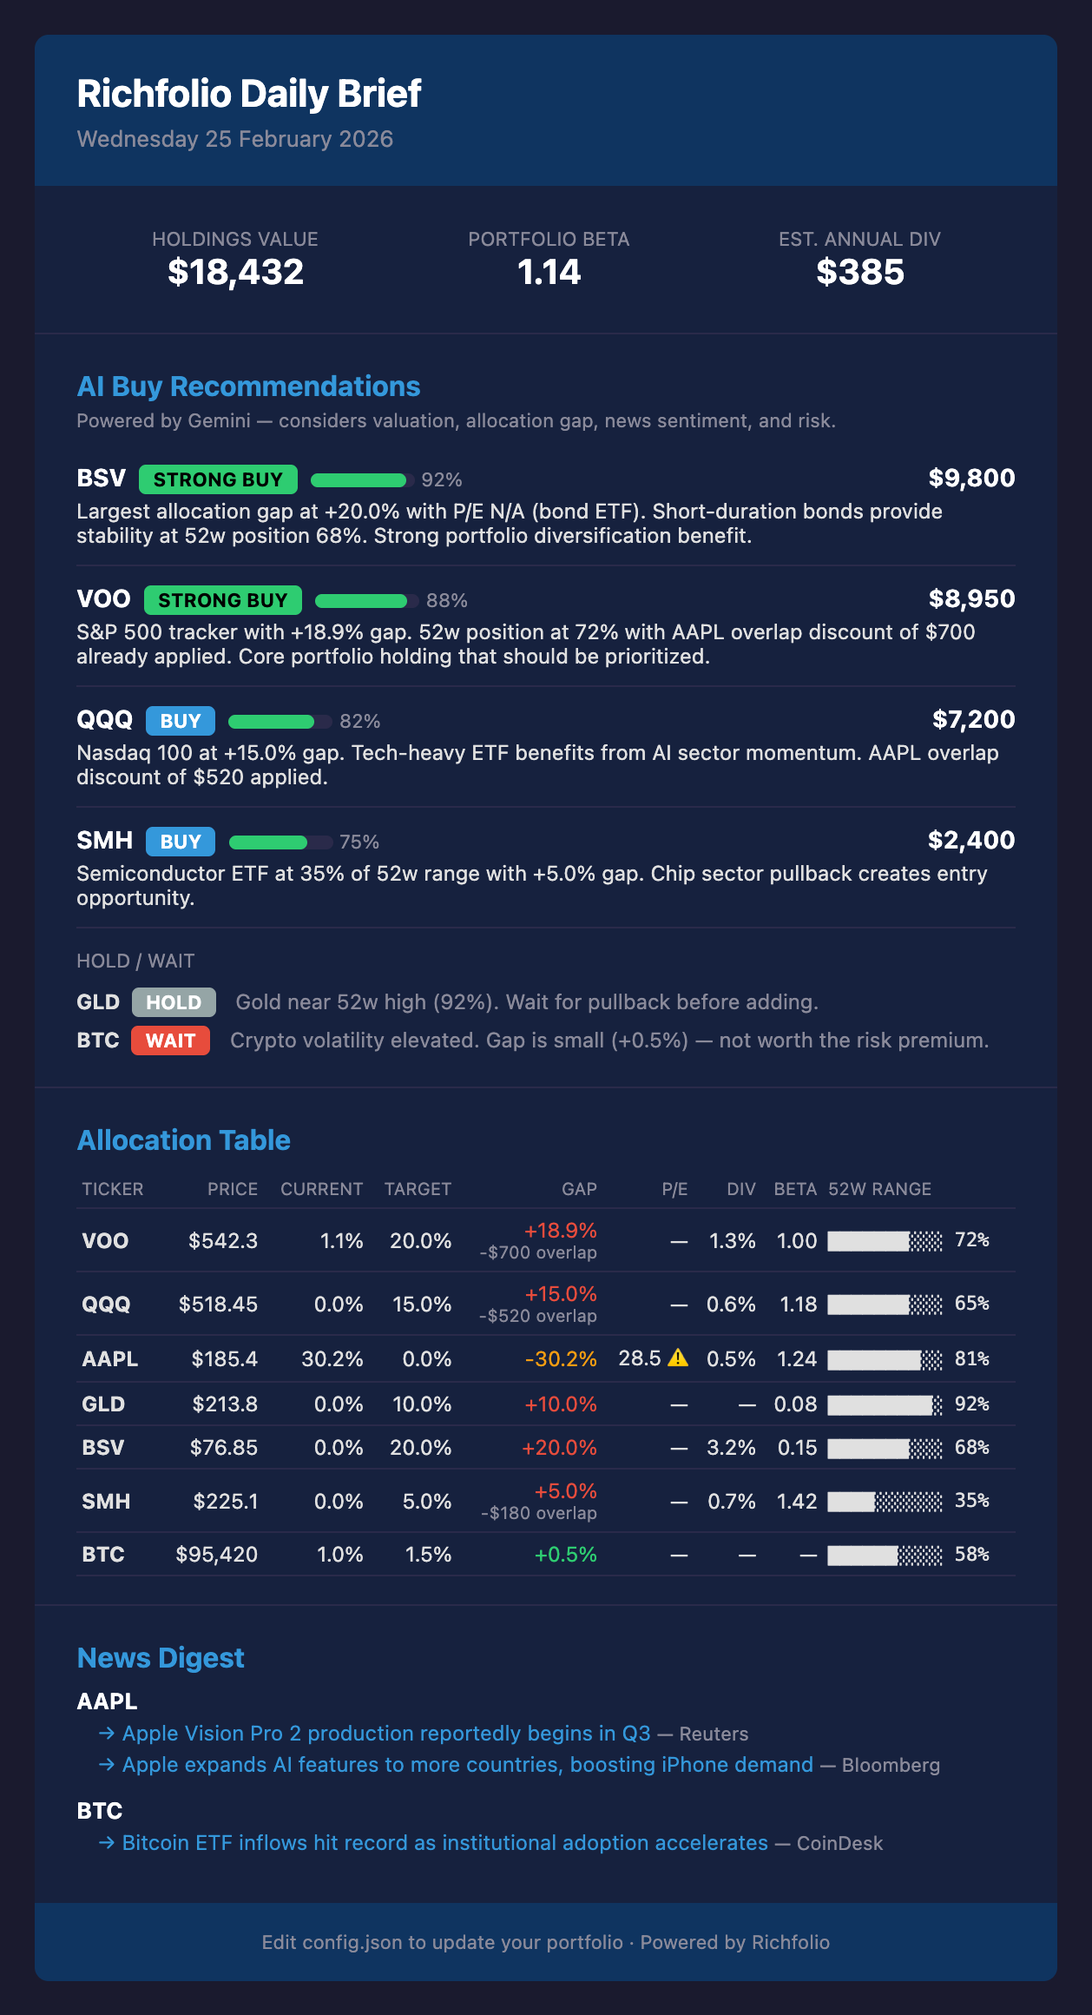
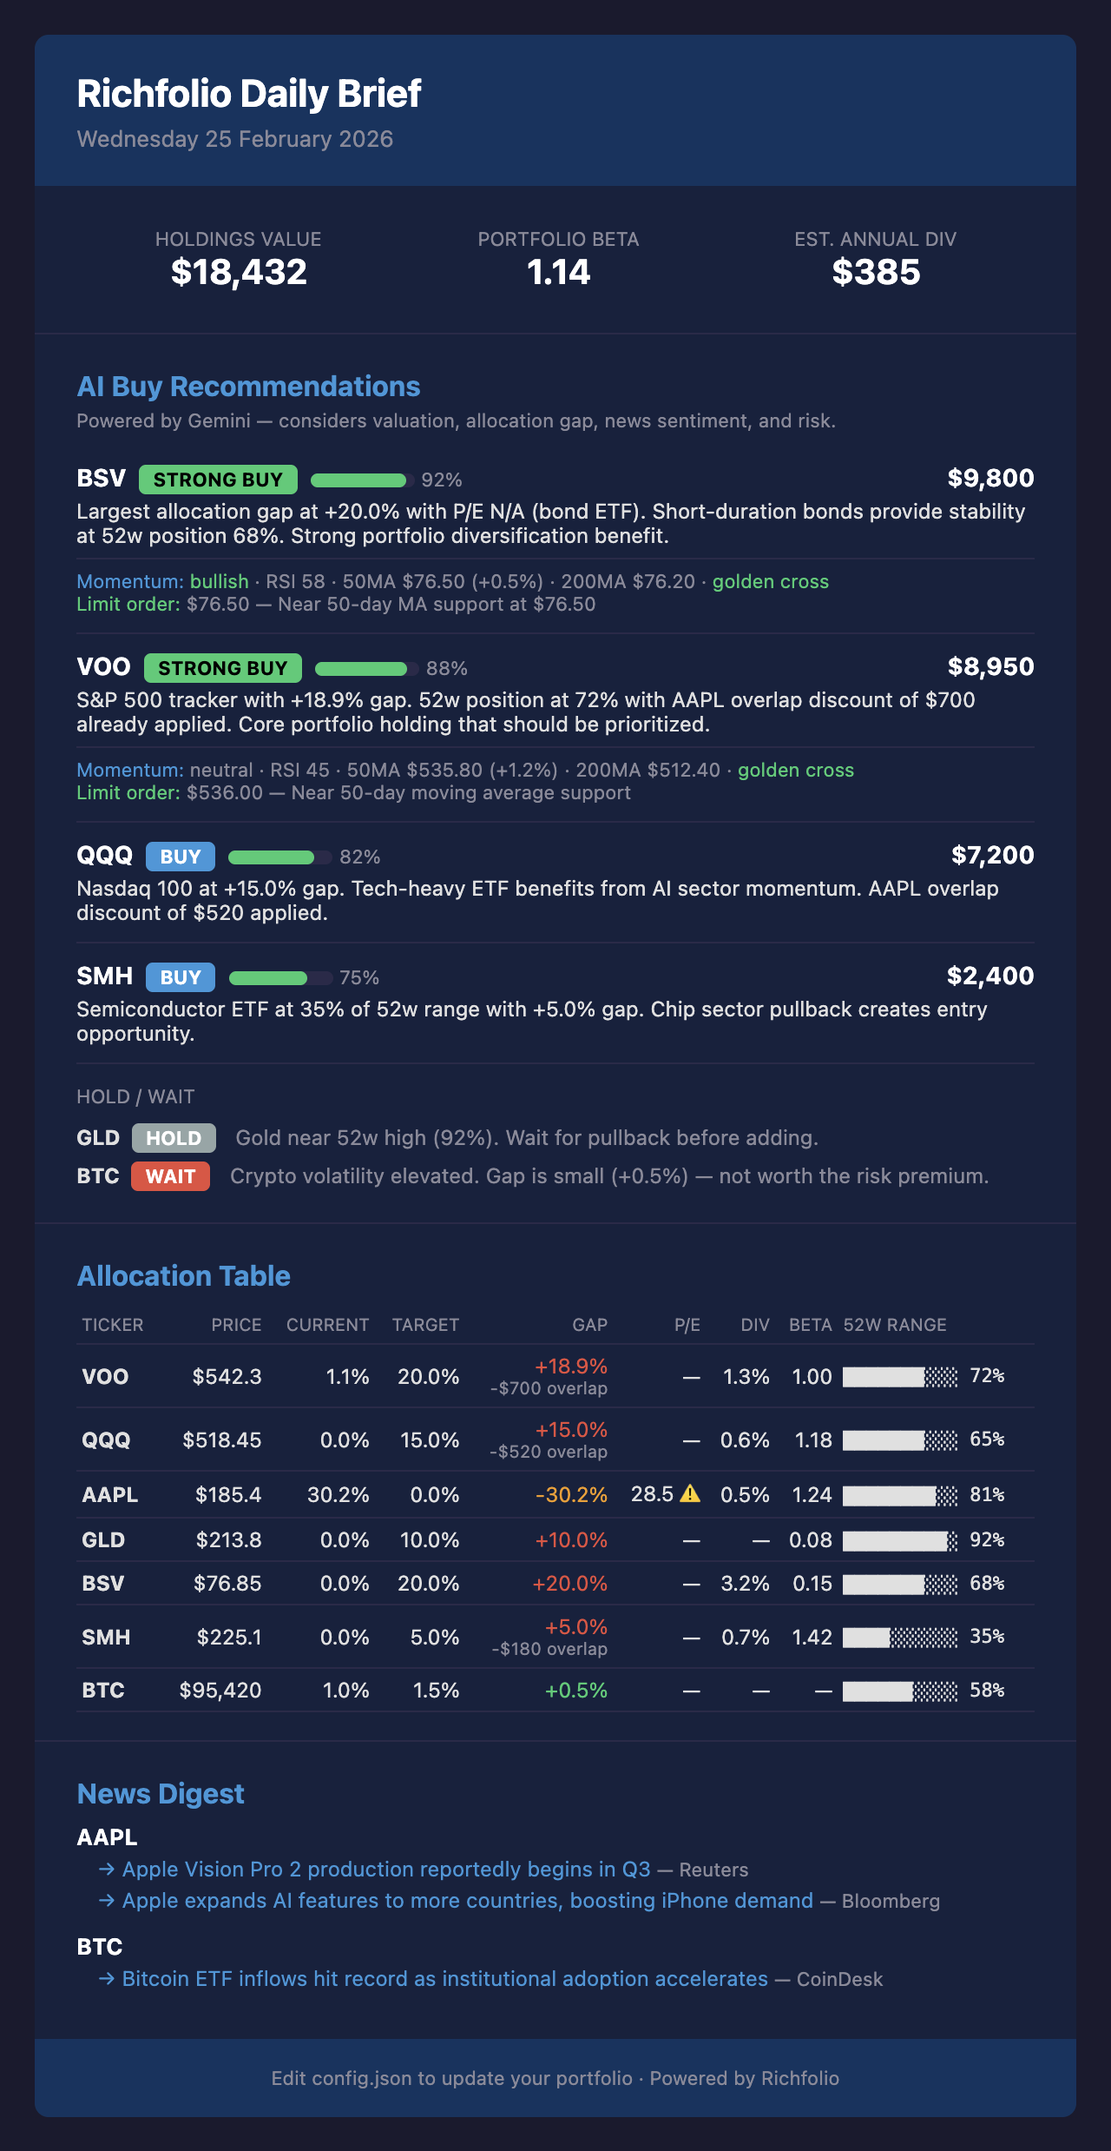
Update docs for technical momentum signals and limit order prices
Add Technical Momentum Signals and Limit Order Prices sections to
features and how-it-works docs. Update pipeline diagrams, architecture
trees, and AI scoring details across README, CLAUDE.md, and mockups.
Fix screenshot rename from intraday-alert.html.png to intraday-alert.png.

diff --git a/docs/mockups/daily-brief.html b/docs/mockups/daily-brief.html
@@ -44,6 +44,7 @@
       <span style="float:right;font-weight:bold;color:#fff;">$9,800</span>
     </div>
     <div style="font-size:12px;color:#e0e0e0;margin-top:4px;">Largest allocation gap at +20.0% with P/E N/A (bond ETF). Short-duration bonds provide stability at 52w position 68%. Strong portfolio diversification benefit.</div>
+    <div style="font-size:11px;color:#8a8a9a;margin-top:6px;border-top:1px solid #2a2a4a;padding-top:6px;"><span style="color:#3498db;">Momentum:</span> <span style="color:#2ecc71;">bullish</span> · RSI <span style="color:#8a8a9a;">58</span> · 50MA $76.50 (+0.5%) · 200MA $76.20 · <span style="color:#2ecc71;">golden cross</span><br><span style="color:#2ecc71;">Limit order:</span> $76.50 — Near 50-day MA support at $76.50</div>
   </div>
   <div style="padding:10px 0;border-bottom:1px solid #2a2a4a;">
     <div style="margin-bottom:4px;">
@@ -53,6 +54,7 @@
       <span style="float:right;font-weight:bold;color:#fff;">$8,950</span>
     </div>
     <div style="font-size:12px;color:#e0e0e0;margin-top:4px;">S&P 500 tracker with +18.9% gap. 52w position at 72% with AAPL overlap discount of $700 already applied. Core portfolio holding that should be prioritized.</div>
+    <div style="font-size:11px;color:#8a8a9a;margin-top:6px;border-top:1px solid #2a2a4a;padding-top:6px;"><span style="color:#3498db;">Momentum:</span> <span style="color:#8a8a9a;">neutral</span> · RSI <span style="color:#8a8a9a;">45</span> · 50MA $535.80 (+1.2%) · 200MA $512.40 · <span style="color:#2ecc71;">golden cross</span><br><span style="color:#2ecc71;">Limit order:</span> $536.00 — Near 50-day moving average support</div>
   </div>
   <div style="padding:10px 0;border-bottom:1px solid #2a2a4a;">
     <div style="margin-bottom:4px;">

diff --git a/docs/mockups/intraday-alert.html b/docs/mockups/intraday-alert.html
@@ -30,6 +30,7 @@
     <div style="margin-bottom:6px;"><span style="color:#2ecc71;font-size:12px;">Price -2.3% since morning</span></div>
     <div style="font-size:12px;color:#e0e0e0;margin-bottom:4px;">Semiconductor ETF dropped on intraday sell-off while fundamentals remain strong. 52w position at 35% with +8.2% allocation gap creates compelling entry point.</div>
     <div style="font-size:13px;font-weight:bold;color:#fff;">Suggested: $4,100</div>
+    <div style="font-size:12px;color:#2ecc71;margin-top:4px;">Limit order: $220.00 — Near 30-day low support at $219</div>
   </div>
   <div style="padding:14px 0;border-bottom:1px solid #2a2a4a;">
     <div style="margin-bottom:6px;">

diff --git a/docs/how-it-works.md b/docs/how-it-works.md
@@ -15,13 +15,16 @@ Richfolio is a single-pipeline system — no API server, no database, no dashboa
 ```
 config.json + .env
   → fetchPrices (Yahoo Finance: prices, P/E, 52w range, beta, dividends, ETF holdings)
+  → fetchTechnicals (Yahoo Finance chart: SMA50, SMA200, RSI, momentum signals)
   → fetchNews (NewsAPI: top headlines per ticker)
   → analyze (allocation gaps, P/E signals, overlap discounts, portfolio metrics)
-  → aiAnalyze (Gemini: AI buy recommendations with confidence scores)
-  → email + telegram (deliver daily brief)
+  → aiAnalyze (Gemini: AI buy recommendations + confidence scores + limit order prices)
+  → email + telegram (deliver daily brief with technical insights for STRONG BUY)
 ```
 
-Weekly mode (`--weekly`) skips news and AI, producing a focused rebalancing report.
+Weekly mode (`--weekly`) skips news, technicals, and AI, producing a focused rebalancing report.
+
+Intraday mode (`--intraday`) re-fetches prices and technicals, re-runs AI (skipping news), compares against the morning baseline, and alerts only when signals strengthen.
 
 ---
 
@@ -32,9 +35,10 @@ src/
 ├── config.ts          # Typed loader for config.json + .env
 ├── index.ts           # Entry point — parses --weekly/--intraday flags, wires modules
 ├── fetchPrices.ts     # Yahoo Finance via yahoo-finance2 (instance-based v3 API)
+├── fetchTechnicals.ts # Yahoo Finance chart: SMA50, SMA200, RSI, momentum signals
 ├── fetchNews.ts       # NewsAPI with ticker-to-company-name mapping
 ├── analyze.ts         # Core analysis: gaps, P/E signals, overlap, portfolio metrics
-├── aiAnalysis.ts      # Gemini prompt builder + JSON response parser
+├── aiAnalysis.ts      # Gemini prompt builder + JSON response parser + limit order prices
 ├── state.ts           # Morning baseline save/load for intraday comparison
 ├── intradayCompare.ts # Compare current AI recs vs morning baseline
 ├── email.ts           # Daily HTML email template + Resend delivery
@@ -43,7 +47,7 @@ src/
 └── telegram.ts        # Telegram Bot API delivery (daily + intraday + weekly formatters)
 ```
 
-Each module is independent — they communicate through typed interfaces (`QuoteData`, `AllocationItem`, `AllocationReport`, `AIBuyRecommendation`, `IntradayAlert`).
+Each module is independent — they communicate through typed interfaces (`QuoteData`, `TechnicalData`, `AllocationItem`, `AllocationReport`, `AIBuyRecommendation`, `IntradayAlert`).
 
 ---
 
@@ -94,14 +98,34 @@ Each ticker's price is positioned within its 52-week range:
 - **20–80%** → mid-range (neutral)
 - **80–100%** → near 52-week high (caution signal)
 
+### Technical Indicators
+
+Richfolio fetches ~250 days of daily OHLCV data via `yahooFinance.chart()` and computes:
+
+1. **SMA50** — simple moving average of the last 50 closing prices
+2. **SMA200** — simple moving average of the last 200 closing prices (null if < 200 data points)
+3. **RSI(14)** — standard Relative Strength Index using 14-day average gain/loss
+4. **Momentum signal**:
+   - **Bullish** — price > SMA50, SMA50 > SMA200, RSI > 40
+   - **Bearish** — price < SMA50, SMA50 < SMA200, RSI < 60
+   - **Neutral** — mixed signals
+5. **Golden/Death cross** — SMA50 crossing above (golden) or below (death) SMA200
+6. **Recent lows** — minimum price in last 7 and 30 trading days (support levels)
+
+Tickers with fewer than 50 data points are gracefully skipped.
+
 ### AI Scoring
 
-The Gemini prompt includes all data points per ticker: price, P/E ratios, 52-week position, allocation gap, dividend yield, beta, ETF overlap, and recent news headlines. The AI weighs these holistically and returns:
+The Gemini prompt includes all data points per ticker: price, P/E ratios, 52-week position, allocation gap, dividend yield, beta, ETF overlap, technical indicators (MAs, RSI, momentum), and recent news headlines. The AI weighs these holistically and returns:
 
 - **Action**: STRONG BUY, BUY, HOLD, or WAIT
 - **Confidence**: 0–100%
 - **Reason**: 1–2 sentence explanation
 - **Suggested amount**: USD to invest
+- **Limit order price**: suggested price below market based on nearest support (MAs, recent lows, round numbers)
+- **Limit price reason**: 1 sentence explaining the support level
+
+Technical indicators refine the AI's confidence — a bullish momentum signal with oversold RSI strengthens a buy case, while bearish signals or overbought RSI weaken it. Limit order prices and technical details are displayed for **STRONG BUY** tickers in the email and Telegram output.
 
 If Gemini is unavailable, the system falls back to gap-based ranking (largest allocation gap first).
 
@@ -112,13 +136,15 @@ If Gemini is unavailable, the system falls back to gap-based ranking (largest al
 | | Daily | Intraday | Weekly |
 |---|---|---|---|
 | Prices & fundamentals | Yes | Yes | Yes |
+| Technical indicators | Yes | Yes | No |
 | News headlines | Yes | No | No |
 | AI recommendations | Yes | Yes | No |
+| Limit order prices | Yes | Yes | No |
 | Allocation analysis | Yes | Yes | Yes |
 | Baseline comparison | Saves baseline | Compares vs morning | No |
 | Email template | Full brief | Alert (triggered only) | Rebalancing table |
 | Telegram format | AI recs + news | Alert (triggered only) | BUY/TRIM actions |
 
 ![Daily Brief](screenshots/morning-debrief.png){: style="max-width: 260px; display: inline-block;" }
-![Intraday Alert](screenshots/intraday-alert.html.png){: style="max-width: 260px; display: inline-block;" }
+![Intraday Alert](screenshots/intraday-alert.png){: style="max-width: 260px; display: inline-block;" }
 ![Weekly Rebalance](screenshots/weekly-rebalance.png){: style="max-width: 260px; display: inline-block;" }

diff --git a/docs/features.md b/docs/features.md
@@ -6,17 +6,43 @@ nav_order: 2
 
 # Features
 
-Richfolio packs 10 capabilities into a single pipeline — all running on free-tier APIs.
+Richfolio packs 12 capabilities into a single pipeline — all running on free-tier APIs.
 
 ---
 
 ## AI Buy Recommendations
 
-Gemini 2.5 Flash analyzes your entire portfolio context — valuation metrics, allocation gaps, news sentiment, risk indicators — and returns ranked buy recommendations with confidence scores and reasoning.
+Gemini 2.5 Flash analyzes your entire portfolio context — valuation metrics, allocation gaps, news sentiment, technical indicators, risk factors — and returns ranked buy recommendations with confidence scores and reasoning.
 
-Each ticker gets an action: **STRONG BUY**, **BUY**, **HOLD**, or **WAIT**, along with a suggested dollar amount. If the Gemini API is unavailable or quota is exhausted, Richfolio falls back to gap-based recommendations automatically.
+Each ticker gets an action: **STRONG BUY**, **BUY**, **HOLD**, or **WAIT**, along with a suggested dollar amount and limit order price. If the Gemini API is unavailable or quota is exhausted, Richfolio falls back to gap-based recommendations automatically.
 
 ![Daily Brief](screenshots/morning-debrief.png){: style="max-width: 400px; display: block; margin: 16px auto;" }
+
+---
+
+## Technical Momentum Signals
+
+Richfolio fetches 250 days of historical price data via Yahoo Finance and computes technical indicators for every ticker in your portfolio:
+
+- **SMA50 / SMA200** — 50-day and 200-day simple moving averages, with current price position relative to each
+- **RSI(14)** — 14-day Relative Strength Index (below 30 = oversold, above 70 = overbought)
+- **Golden / Death Cross** — SMA50 crossing above (bullish) or below (bearish) SMA200
+- **Momentum Signal** — classified as **bullish**, **bearish**, or **neutral** based on price vs MAs and RSI
+- **Recent Lows** — 7-day and 30-day lows for identifying nearby support levels
+
+All technical data feeds into the AI prompt for better-informed recommendations. For **STRONG BUY** tickers, momentum details are shown directly in the email and Telegram message.
+
+---
+
+## Limit Order Prices
+
+When Gemini recommends **STRONG BUY** or **BUY**, it also suggests a limit order price slightly below current market. The suggested price is based on the nearest support level:
+
+- **Moving average support** — price near the 50-day or 200-day MA
+- **Recent lows** — 7-day or 30-day low as a support floor
+- **Round numbers** — psychological support at round price levels
+
+Limit order prices and their reasoning are displayed for **STRONG BUY** tickers in the daily email, Telegram message, and intraday alerts.
 
 ---
 
@@ -77,7 +103,7 @@ Two portfolio-wide metrics calculated from your current holdings:
 
 ## Intraday Alerts
 
-Don't miss the buying moment of the day. After the morning brief runs, Richfolio saves the AI recommendations as a baseline. Intraday checks (`npm run intraday`) run every 2 hours during market hours, re-fetch prices, re-run Gemini analysis (skipping news to save API quota), and compare against the morning baseline.
+Don't miss the buying moment of the day. After the morning brief runs, Richfolio saves the AI recommendations as a baseline. Intraday checks (`npm run intraday`) run every 2 hours during market hours, re-fetch prices and technicals, re-run Gemini analysis (skipping news to save API quota), and compare against the morning baseline.
 
 An alert fires only when:
 
@@ -85,11 +111,11 @@ An alert fires only when:
 - **Action upgrades** — e.g., BUY in the morning becomes STRONG BUY in the afternoon
 - **New signal** — a ticker that wasn't recommended in the morning now has a strong buy signal
 
-Alerts are delivered via email and Telegram with a focused format showing the morning vs current comparison, price change, and AI reasoning. No alert = no message — you only hear from Richfolio when it matters.
+Alerts are delivered via email and Telegram with a focused format showing the morning vs current comparison, price change, AI reasoning, and limit order price for STRONG BUY signals. No alert = no message — you only hear from Richfolio when it matters.
 
 All thresholds are configurable via the `intradayAlerts` section in `config.json`. See [Configuration](configuration) for details.
 
-![Intraday Alert](screenshots/intraday-alert.html.png){: style="max-width: 400px; display: block; margin: 16px auto;" }
+![Intraday Alert](screenshots/intraday-alert.png){: style="max-width: 400px; display: block; margin: 16px auto;" }
 
 ---
 
@@ -111,7 +137,7 @@ Includes overweight warnings and flags holdings that aren't in your target portf
 
 Every report is delivered through two channels:
 
-- **Email** — dark-themed HTML email via Resend with full detail (allocation table, P/E signals, AI recommendations, news)
-- **Telegram** — condensed plain-text summary via Telegram Bot API, optimized for mobile reading
+- **Email** — dark-themed HTML email via Resend with full detail (allocation table, P/E signals, AI recommendations, technical momentum, limit orders, news)
+- **Telegram** — condensed plain-text summary via Telegram Bot API, optimized for mobile reading (includes technicals and limit prices for STRONG BUY)
 
 Both channels work independently — if one isn't configured, the other still delivers.

diff --git a/README.md b/README.md
@@ -12,14 +12,16 @@ A zero-maintenance portfolio monitoring system. Set your target allocations once
 <p align="center">
   <img src="docs/screenshots/morning-debrief.png" alt="Daily Brief" width="280">
   &nbsp;&nbsp;
-  <img src="docs/screenshots/intraday-alert.html.png" alt="Intraday Alert" width="280">
+  <img src="docs/screenshots/intraday-alert.png" alt="Intraday Alert" width="280">
   &nbsp;&nbsp;
   <img src="docs/screenshots/weekly-rebalance.png" alt="Weekly Rebalance" width="280">
 </p>
 
 ## Features
 
-- **AI Buy Recommendations** — Gemini-powered analysis considering valuation, allocation gap, news sentiment, and risk (with gap-based fallback)
+- **AI Buy Recommendations** — Gemini-powered analysis considering valuation, allocation gap, news sentiment, technicals, and risk (with gap-based fallback)
+- **Technical Momentum Signals** — SMA50, SMA200, RSI(14), golden/death cross, and momentum classification (bullish/bearish/neutral) for each ticker
+- **Limit Order Prices** — AI-suggested limit order prices based on nearby support levels (moving averages, recent lows, round numbers)
 - **Allocation Gap Analysis** — current vs target %, flagged by priority with suggested buy amounts
 - **Dynamic P/E Signals** — trailing P/E compared against historical averages fetched from Yahoo Finance (no manual benchmarks needed)
 - **ETF Overlap Detection** — reduces buy priority for ETFs where you already hold overlapping stocks (e.g., holding AAPL reduces VOO's priority)
@@ -82,9 +84,10 @@ richfolio/
 │   ├── config.ts          # Typed loader for config.json + .env
 │   ├── index.ts           # Entry point (daily/intraday/weekly mode)
 │   ├── fetchPrices.ts     # Yahoo Finance: price, P/E, 52w, beta, dividends, ETF holdings
+│   ├── fetchTechnicals.ts # Yahoo Finance chart: SMA50, SMA200, RSI, momentum signals
 │   ├── fetchNews.ts       # NewsAPI: headlines per ticker
 │   ├── analyze.ts         # Allocation gaps, P/E signals, overlap discounts
-│   ├── aiAnalysis.ts      # Gemini AI buy recommendations
+│   ├── aiAnalysis.ts      # Gemini AI buy recommendations + limit order prices
 │   ├── email.ts           # Daily HTML email template + Resend
 │   ├── intradayEmail.ts   # Intraday alert email template
 │   ├── intradayCompare.ts # Compare current vs morning baseline
@@ -106,15 +109,16 @@ richfolio/
 ```
 config.json + .env
   → fetchPrices (Yahoo Finance: prices, P/E, 52w range, beta, dividends, ETF holdings)
+  → fetchTechnicals (Yahoo Finance chart: SMA50, SMA200, RSI, momentum signals)
   → fetchNews (NewsAPI: top headlines per ticker)
   → analyze (allocation gaps, P/E signals, overlap discounts, portfolio metrics)
-  → aiAnalyze (Gemini: AI buy recommendations with confidence scores)
-  → email + telegram (deliver daily brief)
+  → aiAnalyze (Gemini: AI buy recommendations with confidence scores + limit order prices)
+  → email + telegram (deliver daily brief with technical insights for STRONG BUY)
 ```
 
 Weekly mode (`--weekly`) skips news and AI, producing a focused rebalancing report.
 
-Intraday mode (`--intraday`) re-fetches prices + AI (skipping news), compares against the morning baseline, and alerts only when buy signals strengthen significantly.
+Intraday mode (`--intraday`) re-fetches prices, technicals, and AI (skipping news), compares against the morning baseline, and alerts only when buy signals strengthen significantly.
 
 ## Updating Your Portfolio
 

diff --git a/CLAUDE.md b/CLAUDE.md
@@ -10,7 +10,7 @@ Richfolio is a zero-maintenance portfolio monitoring system that sends daily ema
 
 - **Runtime**: Node.js + TypeScript (strict mode, ESNext, ESM)
 - **Execution**: `tsx` (TypeScript execute, no build step)
-- **Data**: `yahoo-finance2` v3 (instance-based API) for prices, fundamentals, earnings history, ETF holdings
+- **Data**: `yahoo-finance2` v3 (instance-based API) for prices, fundamentals, earnings history, ETF holdings, chart data (technicals)
 - **News**: NewsAPI.org free tier (100 req/day)
 - **AI**: Google Gemini 2.5 Flash via `@google/genai` (250 req/day free)
 - **Email**: Resend.com free tier (3,000 emails/month)
@@ -36,9 +36,10 @@ Single-pipeline flow, no API server. Three modes: daily (default), intraday (`--
 src/index.ts (entry point — parses --weekly/--intraday flags, wires modules)
   → src/config.ts          # Loads config.json + .env, exports typed portfolio data + intradayConfig
   → src/fetchPrices.ts     # Yahoo Finance: price, P/E, avgPE, 52w, beta, dividends, ETF top holdings
+  → src/fetchTechnicals.ts # Yahoo Finance chart: SMA50, SMA200, RSI(14), momentum, support levels
   → src/fetchNews.ts       # NewsAPI: top 3 headlines per ticker (daily only)
   → src/analyze.ts         # Allocation gaps, P/E signals, ETF overlap discounts, portfolio beta, dividend estimate
-  → src/aiAnalysis.ts      # Gemini AI: buy recommendations with confidence scores (daily + intraday)
+  → src/aiAnalysis.ts      # Gemini AI: buy recommendations + confidence scores + limit order prices (daily + intraday)
   → src/state.ts           # Save/load morning baseline for intraday comparison
   → src/intradayCompare.ts # Compare current AI recs vs morning baseline, detect strengthening
   → src/email.ts           # Daily dark-themed HTML email + Resend
@@ -80,3 +81,6 @@ In GitHub Actions, `config.json` is written from the `CONFIG_JSON` secret at run
 - **Telegram char limit**: 4,096 chars per message — news section is truncated if needed
 - **GitHub Actions timezone**: Cron is always UTC. 10pm UTC = 8am AEST
 - **Gemini quota**: New API keys may take minutes to activate. Graceful fallback to gap-based recommendations
+- **Technical data**: Fetched via `yahooFinance.chart()` with 365-day lookback. Tickers with <50 data points are skipped. SMA200 is null if <200 data points
+- **Technicals display**: Only shown for STRONG BUY tickers in email/Telegram to avoid info overload. AI receives technicals for all tickers
+- **Limit order prices**: Suggested by AI based on nearest support (50MA, 30d low, round numbers). Shown for STRONG BUY in daily, intraday, and Telegram
